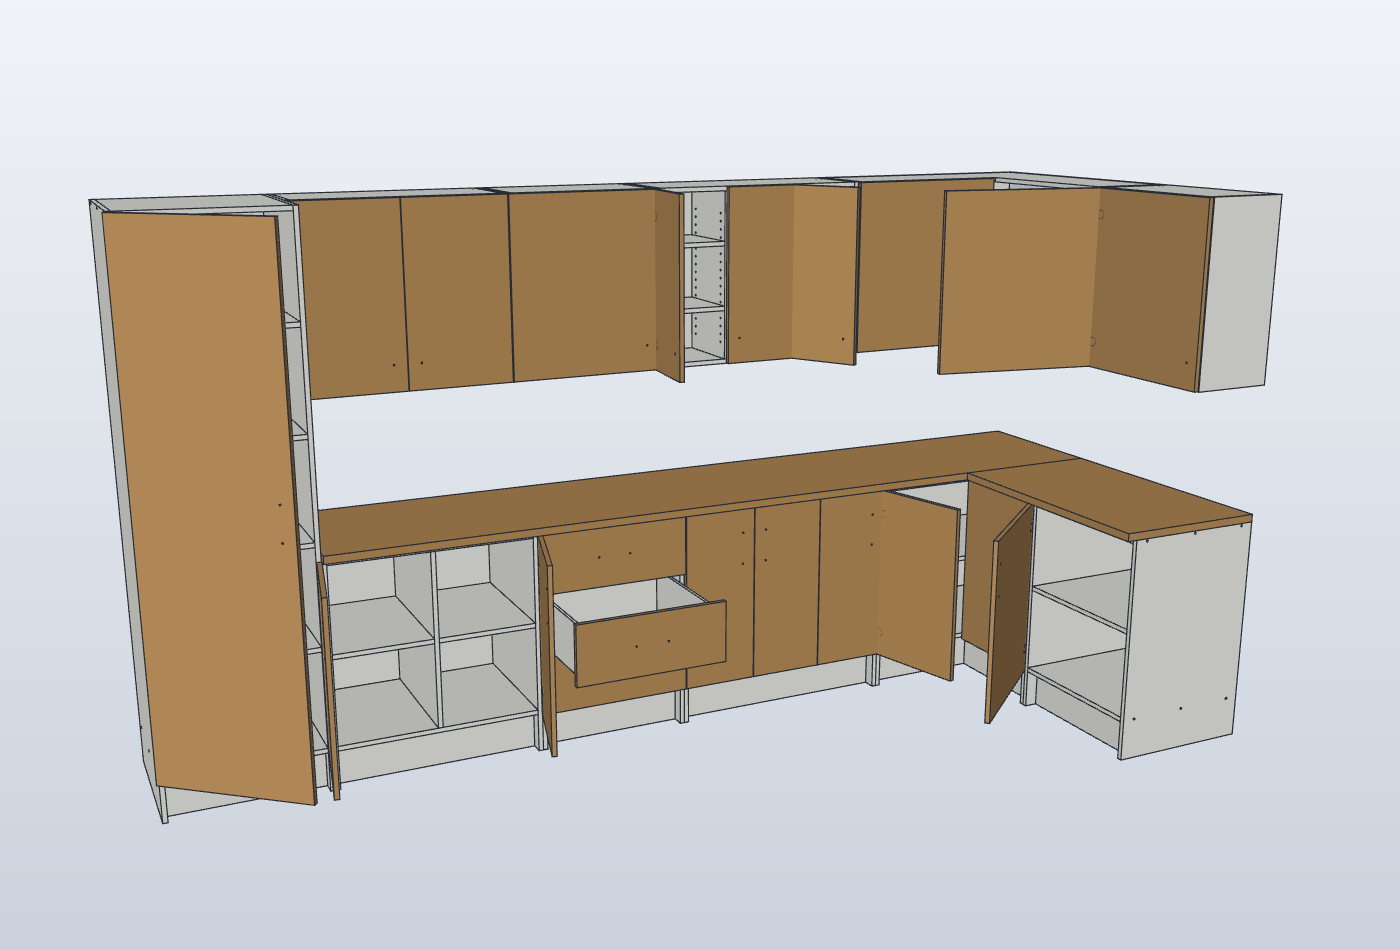
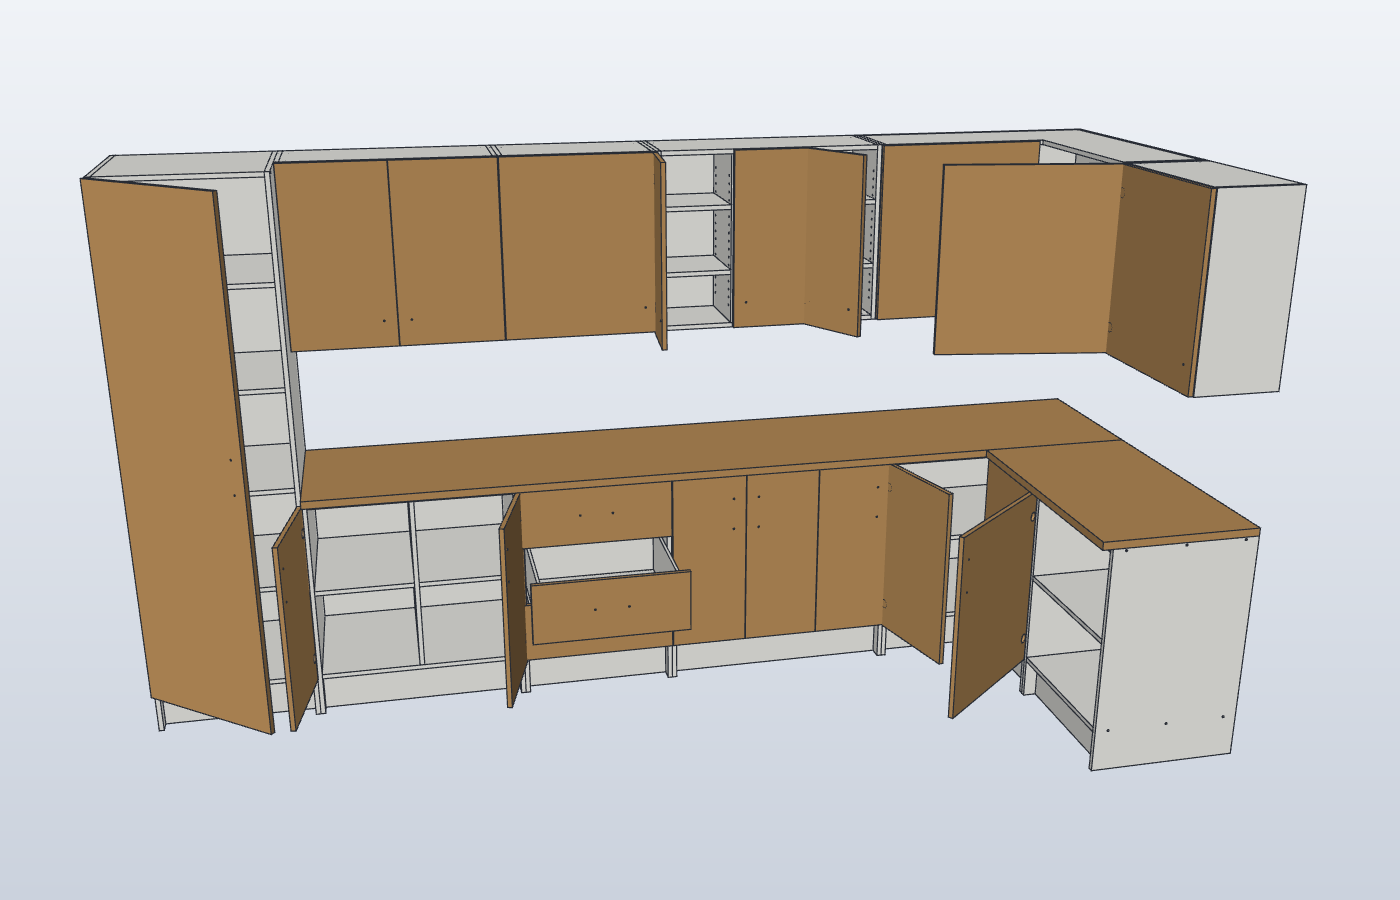
README picture: the L-shaped kitchen, closer and from higher up

Changed region(s): [[0.0614, 0.1244, 0.9521, 0.8711]]

diff --git a/CLAUDE.md b/CLAUDE.md
@@ -85,7 +85,7 @@ ground), so a builder only returns its commands and `Kit`'s summary.
 - **The sample kitchen shows everything.** A new function goes into `examples/kitchen.py` in
   the same branch; rerun it (it rewrites `examples/kitchen.sc` and the cut list CSV) and
   re-render `docs/kitchen.png`:
-  `solidcraft-cli snapshot --in examples/kitchen.sc --out docs/kitchen.png --camera '{"target":[1750,-320,1030],"yaw":0.45,"pitch":0.25,"distance":5900,"fov":0.6}' --no-grid --no-axes --width 1400 --height 950 --quality fine`
+  `solidcraft-cli snapshot --in examples/kitchen.sc --out docs/kitchen.png --camera '{"target":[1800,-350,1000],"yaw":0.22,"pitch":0.33,"distance":5600,"fov":0.6}' --no-grid --no-axes --width 1400 --height 900 --quality fine`
 - **Releases come from tags.** Pushing a tag `vX.Y.Z` that matches the version in
   `plugin.json` makes the same workflow attach `woodwork-X.Y.Z.zip` to a GitHub Release.
 - **Branches and pull requests, never straight to main.** One branch per function, one commit
